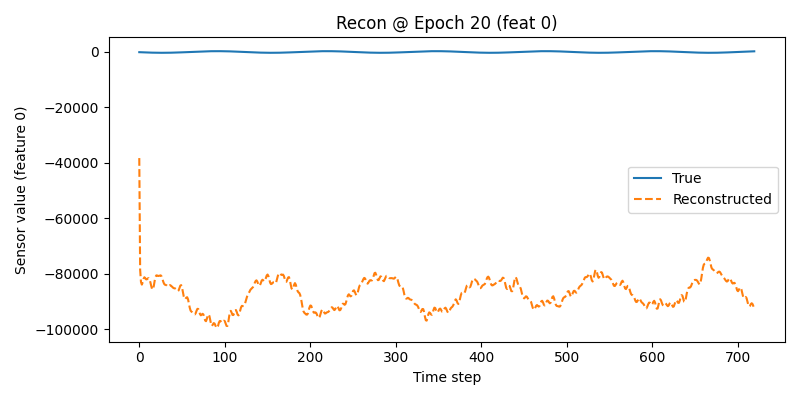
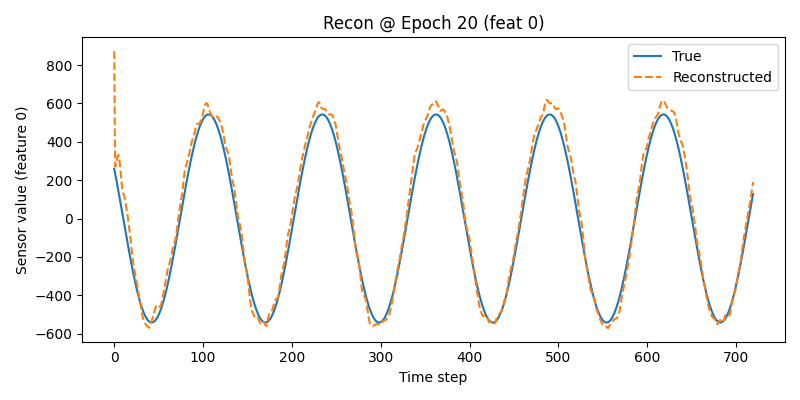
adding a better transformer

diff --git a/external_libs/PredTrAD/predtrad_impl.py b/external_libs/PredTrAD/predtrad_impl.py
@@ -100,46 +100,64 @@ def backprop(epoch, model, data, feats, optimizer, criterion, scheduler, trainin
                 test_preds.append(test_pred.squeeze(0))
             return np.concatenate(test_losses, axis=0), np.concatenate(test_preds, axis=0)
     elif 'PredTrAD_v1' in model.name:
+        # data is now a WindowDataset of raw windows
         shuffle = True if training and _shuffle else False
-
-        # data
-        data_enc = data[:, :model.n_enc, :]  # data from 0 to 39 (40)
-        data_dec = data[:, model.n_enc - 1:model.n_window - 1, :]  # data from 39 to 48 (10)
-        data_labels = data[:, model.n_enc:, :]  # data from 40 to 49 (10)
-
-        dataset = torch.utils.data.TensorDataset(data_enc, data_dec, data_labels)
-        dataloader = torch.utils.data.DataLoader(dataset, batch_size=model.batch, shuffle=shuffle)
+        dataset = data
+        dataloader = DataLoader(dataset,
+                                batch_size=model.batch,
+                                shuffle=shuffle)
 
         if training:
             model.train()
             train_losses = []
-            for i, (enc, dec, labels) in enumerate(dataloader):
+            for window in dataloader:
                 optimizer.zero_grad()
+                # split each window into encoder input, decoder input, and labels
+                enc    = window[:, :model.n_enc, :]
+                dec    = window[:, model.n_enc-1 : model.n_window-1, :]
+                labels = window[:, model.n_enc : model.n_window, :]
                 outputs = model(enc, dec)
                 loss = torch.mean(criterion(outputs, labels))
                 train_losses.append(loss.item())
                 loss.backward()
                 optimizer.step()
             scheduler.step()
-            tqdm.write(f'Epoch {epoch},\tloss= {np.mean(train_losses)}')
+            tqdm.write(f"Epoch {epoch},\tloss= {np.mean(train_losses)}")
             return np.mean(train_losses), optimizer.param_groups[0]['lr']
+
         else:
             with torch.no_grad():
                 model.eval()
                 test_losses = []
-                test_preds = []
-                for i, (enc, dec, labels) in enumerate(dataloader):
+                test_preds  = []
+                for i, window in enumerate(dataloader):
                     if i == 0:
-                        mlflow.log_text(str(summary(model, input_data=(enc, dec), verbose=0)), "model_summary.txt")
+                        # log model summary once
+                        sample_enc = window[:, :model.n_enc, :]
+                        sample_dec = window[:, model.n_enc-1 : model.n_window-1, :]
+                        mlflow.log_text(str(summary(model,
+                                                    input_data=(sample_enc, sample_dec),
+                                                    verbose=0)),
+                                        "model_summary.txt")
+
+                    enc    = window[:, :model.n_enc, :]
+                    dec    = window[:, model.n_enc-1 : model.n_window-1, :]
+                    labels = window[:, model.n_enc : model.n_window, :]
+
                     outputs = model(enc, dec)
-                    test_loss = criterion(outputs, labels).detach().cpu().numpy()[:, -1, :]
-                    #test_loss = criterion(outputs, labels).detach().cpu().numpy().mean(axis=1) # new
+                    # get last timestep’s loss & prediction like before
+                    test_loss = criterion(outputs, labels)\
+                                    .detach()\
+                                    .cpu()\
+                                    .numpy()[:, -1, :]
                     test_pred = outputs.detach().cpu().numpy()[:, -1, :]
 
                     test_losses.append(test_loss)
                     test_preds.append(test_pred)
 
-                return np.concatenate(test_losses, axis=0), np.concatenate(test_preds, axis=0)
+                return (np.concatenate(test_losses, axis=0),
+                        np.concatenate(test_preds,  axis=0))
+
     elif 'PredTrAD_v2' in model.name:
         shuffle = True if training and _shuffle else False
 
@@ -244,26 +262,36 @@ def experiment_common(
 
     with mlflow.start_run(run_name=f"{dataset}_{entity}_{model_name}"):
         device = torch.device("cuda" if torch.cuda.is_available() else "cpu")
-        dict_trainD, dict_testD, dict_test_labels, dict_test_timestamps, test_columns = load_dataset(device, dataset=dataset, id=entity, scaler=params["scaler"])
+        dict_trainD, dict_testD, raw_test_labels, dict_test_timestamps, test_columns = load_dataset(device, dataset=dataset, id=entity, scaler=params["scaler"])
 
         dims = len(test_columns)
         model, optimizer, scheduler, epoch = load_model(model_name, dims, device=device, lr_d=hyp_lr)
+        model.batch = params.get("batch_size", model.batch)
         testO = dict_testD.copy()
 
         window_size = model.n_window
-        trainD = torch.cat([convert_to_windows(d, window_size) for d in dict_trainD.values()], dim=0)
+        trainD = WindowDataset(dict_trainD, window_size, params.get('stride_size'))
+        stride_size = params.get("stride_size", window_size)
 
+        #For the fault detection dataset
         if mlflow_experiment == "Experiment_4":
             dict_windowed_valD  = {}
             dict_val_labels     = {}
             dict_windowed_testD = {
-                k: convert_to_windows(v, window_size)
-                for k, v in dict_testD.items()
+                k: WindowDataset({k: v}, window_size, stride_size)
+                    for k, v in dict_testD.items()
             }
-            dict_test_labels = {
-                k: np.zeros(len(windows), dtype=int)
-                for k, windows in dict_windowed_testD.items()
-            }
+            dict_test_labels = {}
+            for k, full_lbls in raw_test_labels.items():
+                n = len(full_lbls)
+                wins = []
+                # slide with stride_size
+                for start in range(0, n - window_size + 1, stride_size):
+                    window = full_lbls[start : start + window_size]
+                    wins.append(1 if window.any() else 0)
+                dict_test_labels[k] = np.array(wins, dtype=int)
+
+
         # Experiment 2
         elif dataset == "TIKI" and mlflow_experiment == "Experiment_2":
             trainD, valD = train_val_split(data=trainD, train_size=0.8, shuffle=shuffle, percentage=hyp_percentage)
@@ -285,8 +313,8 @@ def experiment_common(
                     windowed_data = convert_to_windows(v, window_size)
                     if k in val_entities:
                         dict_windowed_valD[k] = windowed_data
-                        dict_val_labels[k] = dict_test_labels[k]
-                        dict_test_labels.pop(k)
+                        dict_val_labels[k] = raw_test_labels[k]
+                        raw_test_labels.pop(k)
                     else:
                         dict_windowed_testD[k] = windowed_data
             # Experiment 1 
@@ -369,6 +397,8 @@ def experiment_common(
         for i, (test_file, testD) in tqdm(enumerate(dict_windowed_testD.items())):
             test_labels = dict_test_labels[test_file]
             loss, y_pred = backprop(0, model, testD, dims, optimizer, criterion, scheduler, training=False, _shuffle=shuffle)
+            if test_labels.ndim == 1:
+                test_labels = test_labels.reshape(-1, 1)
 
             ### Scores
             df = pd.DataFrame()
@@ -381,6 +411,8 @@ def experiment_common(
             for j in range(dims):
                 test_col_name = test_columns[j]
                 params["init_score"] = lossT[:, j]
+                if loss.ndim == 2 and test_labels.ndim == 2 and test_labels.shape[1] == 1 and loss.shape[1] > 1:
+                    test_labels = np.tile(test_labels, (1, loss.shape[1]))
                 result = eval_fn(loss[:, j], test_labels[:, j], params)
 
                 # save the pot predictions and thresholds
@@ -591,6 +623,7 @@ def experiment4(config):
         'lm_d0':       params.get('lm_d0'),
         'lm_d1':       params.get('lm_d1'),
         'scaler':      params.get('scaler', 'min_max'),
+        'stride_size': params.get('stride_size')
     }
     experiment_common(
         params["model_name"],

diff --git a/transformer/train.py b/transformer/train.py
@@ -48,13 +48,8 @@ def train_one_epoch(model, loader, criterion, optimizer, device, d_model, warmup
         output = model(src, tgt)
         loss = criterion(output, tgt)
         loss.backward()
-        # torch.nn.utils.clip_grad_norm_(model.parameters(), max_norm=1.0)
-        # scheduler = torch.optim.lr_scheduler.ExponentialLR(
-        #     optimizer,
-        #     gamma=0.95
-        # )
+        torch.nn.utils.clip_grad_norm_(model.parameters(), max_norm=1.0)
         optimizer.step()
-        # scheduler.step()
 
         running_loss += loss.item() * src.size(0)
     return running_loss / len(loader.dataset)
@@ -123,6 +118,7 @@ def main(
 
     criterion = nn.MSELoss()
     optimizer = optim.Adam(model.parameters(), lr=learning_rate)
+    scheduler   = torch.optim.lr_scheduler.ExponentialLR(optimizer, gamma=0.95)
     d_model      = cfg.get("d_model", 256)
     warmup_steps = cfg.get("warmup_steps", 1000)
 
@@ -148,6 +144,7 @@ def main(
         print(f"Epoch {epoch}/{num_epochs}")
         train_loss = train_one_epoch(model, train_loader, criterion, optimizer, device, d_model, warmup_steps)
         val_loss = evaluate(model, val_loader, criterion, device)
+        scheduler.step()
         #storing the train and validation loss
         train_losses.append(train_loss)
         val_losses.append(val_loss)
@@ -196,14 +193,14 @@ def main(
                 output_dir = CLUSTERING_TRANSFORMERS_DIR,
                 prefix     = "recon"
             )
-            validation_loss_curve = plot_loss_curve(
+
+    best_path = os.path.join(CHECKPOINT_TRANSFORMERS_DIR, f"best_model_{best_epoch:02d}.pth")
+    validation_loss_curve = plot_loss_curve(
                 train_losses = train_losses,
                 val_losses = val_losses, 
                 start_epoch = epoch, 
                 output_dir = CLUSTERING_TRANSFORMERS_DIR,
                 filename =f"loss_curve{epoch}.png")
-
-    best_path = os.path.join(CHECKPOINT_TRANSFORMERS_DIR, f"best_model_{best_epoch:02d}.pth")
     torch.save(best_state, best_path)
     print(f"Training complete. Best epoch={best_epoch}, val_loss={best_val_loss:.6f}")
     print(f"Best model saved to {best_path}")

diff --git a/external_libs/PredTrAD/metrics.py b/external_libs/PredTrAD/metrics.py
@@ -1,0 +1,46 @@
+import argparse
+from mlflow.tracking import MlflowClient
+
+def main(experiment_name: str):
+    client = MlflowClient()
+    exp = client.get_experiment_by_name(experiment_name)
+    if exp is None:
+        print(f"❌ Experiment not found: {experiment_name}")
+        return
+
+    # Find the single most‐recent run
+    runs = client.search_runs(
+        experiment_ids=[exp.experiment_id],
+        order_by=["attributes.start_time DESC"],
+        max_results=1,
+    )
+    if not runs:
+        print(f"❌ No runs found for experiment: {experiment_name}")
+        return
+
+    run = runs[0]
+    print(f"\n🏷  Experiment: {experiment_name!r} (ID {exp.experiment_id})")
+    print(f"🔖 Latest run ID: {run.info.run_id}")
+    print(f"⏰ Start time:   {run.info.start_time}\n")
+
+    # Params
+    print("Parameters:")
+    for k, v in run.data.params.items():
+        print(f"  • {k} = {v}")
+    # Metrics
+    print("\nMetrics:")
+    for k, v in run.data.metrics.items():
+        print(f"  • {k} = {v}")
+
+if __name__ == "__main__":
+    parser = argparse.ArgumentParser(
+        description="Show latest MLflow run metrics for a given experiment"
+    )
+    parser.add_argument(
+        "--experiment",
+        "-e",
+        required=True,
+        help="MLflow experiment name (e.g. Experiment_4)",
+    )
+    args = parser.parse_args()
+    main(args.experiment)

diff --git a/external_libs/PredTrAD/src/utils.py b/external_libs/PredTrAD/src/utils.py
@@ -186,3 +186,28 @@ def load_model(modelname, dims, device, lr_d = 0.0001):
     return model, optimizer, scheduler, epoch
 
 
+class WindowDataset(torch.utils.data.Dataset):
+    """
+    Streams sliding windows from a dict of time-series tensors
+    without concatenating them all in memory.
+    """
+    def __init__(self, series_dict, window_size, stride):
+        self.window_size = window_size
+        self.stride      = stride
+        self.series_dict = series_dict
+
+        # build index: list of (key, start_idx)
+        self.index_map = []
+        for key, tensor in series_dict.items():
+            length = tensor.shape[0]
+            for start in range(0, length - window_size + 1, stride):
+                self.index_map.append((key, start))
+
+    def __len__(self):
+        return len(self.index_map)
+
+    def __getitem__(self, idx):
+        key, start = self.index_map[idx]
+        ts = self.series_dict[key]   # torch.Tensor shape (T, feats)
+        window = ts[start : start + self.window_size]
+        return window

diff --git a/external_libs/PredTrAD/check_experiments.py b/external_libs/PredTrAD/check_experiments.py
@@ -1,0 +1,12 @@
+#!/usr/bin/env python3
+from mlflow.tracking import MlflowClient
+from mlflow.entities import ViewType
+
+client = MlflowClient()
+
+# fetch all experiments (active + deleted)
+experiments = client.search_experiments(view_type=ViewType.ALL)
+
+print("Registered experiments:")
+for exp in experiments:
+    print(f"  • ID={exp.experiment_id!r}\tname={exp.name!r}")

diff --git a/scripts/prep_zip.py b/scripts/prep_zip.py
@@ -150,7 +150,8 @@ def main():
     X_train, X_test, y_train, y_test = train_test_split(
         data_all, labels_all,
         test_size=args.test_size,
-        shuffle=args.shuffle,
+        shuffle= True,
+        stratify=labels_all,
         random_state=args.random_state
     )
 
